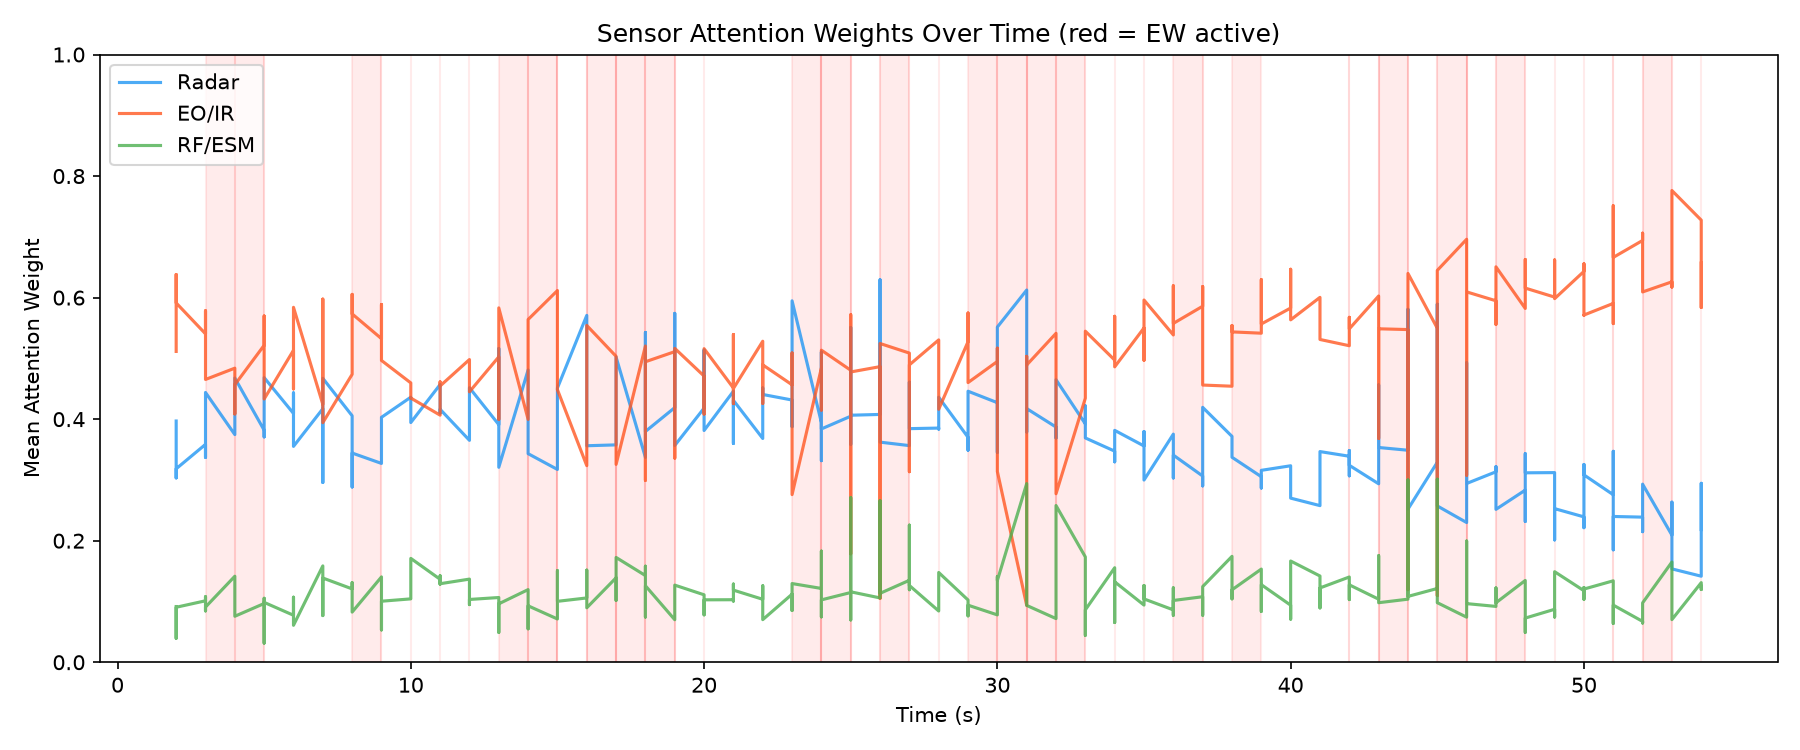
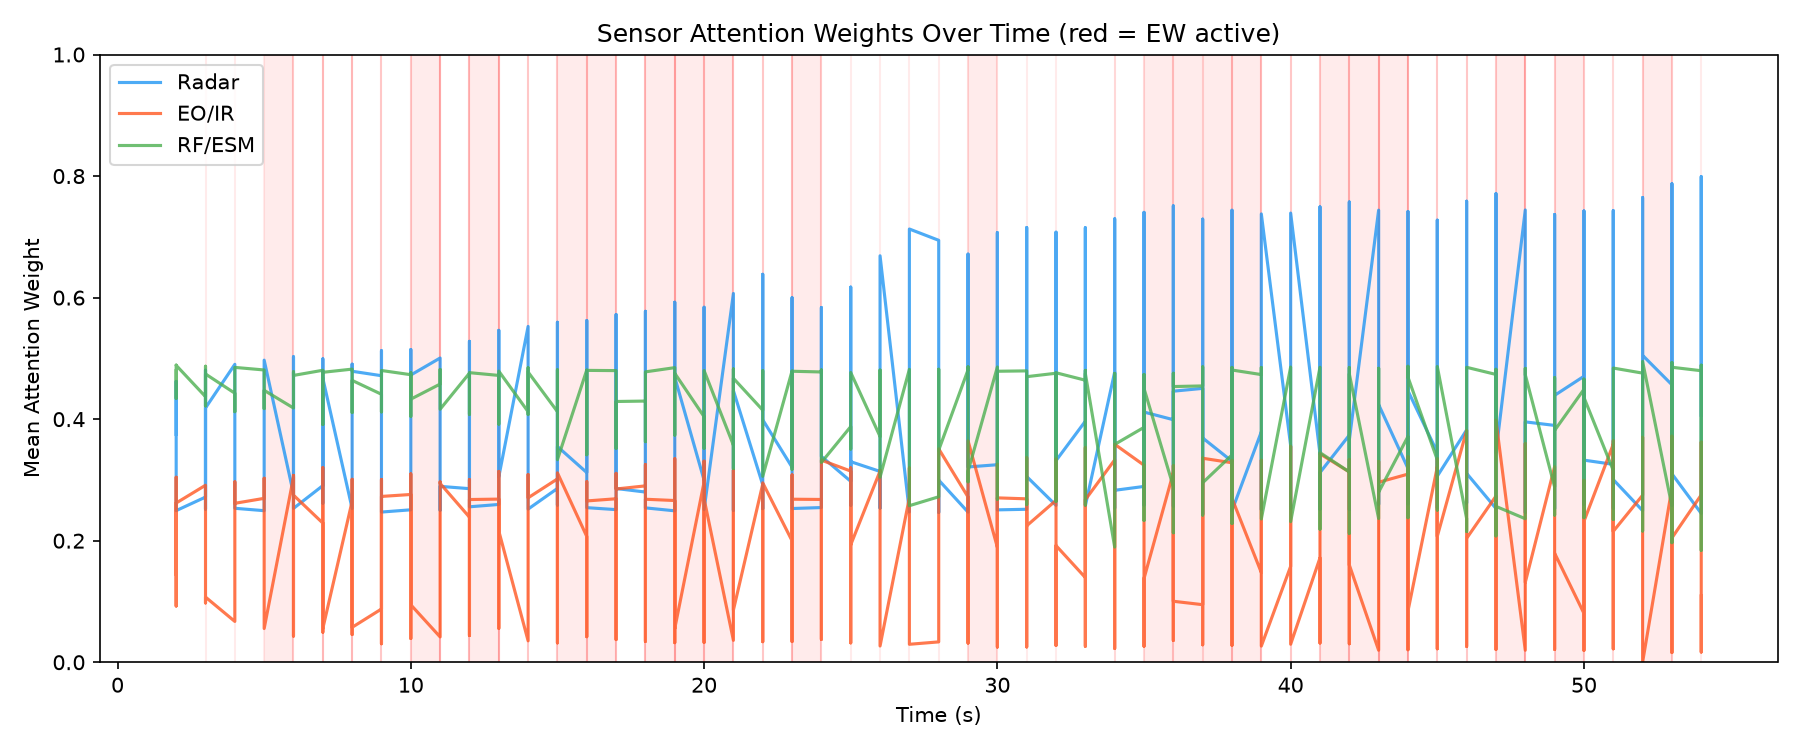
docs: update technical showcase scope, portfolio context, and 6-DoF JSBSim benchmark results

Changed region(s): [[0.0933, 0.2453, 0.9644, 0.8893]]

diff --git a/README.md b/README.md
@@ -1,4 +1,4 @@
-# EW-Resilient Multi-Sensor Threat Tracking & Trajectory Prediction
+# EW-Resilient Multi-Sensor Threat Tracking & Trajectory Prediction
 
 [![Python](https://img.shields.io/badge/Python-3.10%2B-blue.svg)](https://www.python.org/)
 [![PyTorch](https://img.shields.io/badge/PyTorch-2.0%2B-EE4C2C.svg)](https://pytorch.org/)
@@ -7,14 +7,20 @@
 
 Target tracking algorithms usually break down when exposed to active Electronic Warfare (EW)—such as radar noise jamming, range-gate pull-off (RGPO), or intermittent packet drops. Classical filters (EKF) diverge, while generic deep learning baselines (LSTM) often output trajectories that violate basic aerodynamics (e.g., predicting an aircraft pulling 20G+ maneuvers).
 
-This repository showcases a hybrid deep learning pipeline designed to solve both problems:
+This repository serves as the public technical verification showcase for the research-grade EW-resilient trajectory prediction and multi-sensor fusion engine featured at [portfolio.omeryigitozbey1.workers.dev](https://portfolio.omeryigitozbey1.workers.dev/).
+
+The hybrid deep learning pipeline combines:
 1. **Cross-Attention Transformer:** Fuses asynchronous, multi-rate sensor inputs (Radar, EO/IR, ESM) and uses reliability gating to automatically down-weight jammed sensors.
-2. **Physics-Informed Neural Network (PINN):** Continuously forecasts future trajectory ($t \in [0, 5\text{s}]$) while penalizing load factors exceeding $9\text{G}$ and enforcing realistic flight envelopes.
-3. **JSBSim 6-DoF Simulation:** Validates performance against an F-16 flight dynamics model under tactical maneuvers.
+2. **Physics-Informed Neural Network (PINN):** Continuously forecasts future trajectory ($t \in [0, 5\text{s}]$) while penalizing load factors exceeding $9\text{G}$, enforcing realistic flight envelopes, and budgeting aerodynamic drag and thrust.
+3. **JSBSim 6-DoF Simulation:** Validates performance against an F-16 flight dynamics model under tactical combat maneuvers.
 
 ---
 
 ## Quick Start / Architecture Verification
+
+> [!NOTE]
+> **Public Technical Showcase Scope:**  
+> The public demo intentionally provides a minimal reference implementation of selected architectural mechanisms; the full multi-threaded training pipeline, 6-DoF JSBSim simulation harness, real-time C2 UDP streaming harness, automated test suite, and proprietary model checkpoints remain private.
 
 A self-contained reference implementation of the core neural architecture is provided in `demo_pipeline.py`. It requires only PyTorch to run:
 
@@ -80,28 +86,31 @@ flowchart TD
 
 ## Benchmark Results
 
-Tested on a standardized benchmark dataset of 100 tactical flight episodes (100-step observation history, 50-step forecast horizon).
+Tested on a standardized benchmark dataset of 100 tactical 6-DoF JSBSim F-16 flight episodes (100-step observation history, 50-step forecast horizon, Mach ~0.8 / 250 m/s combat maneuvers).
 
 ### Tracking Error (RMSE in meters)
 
 | Model | Condition | 1.0s Horizon | 3.0s Horizon | 5.0s Horizon | Phys. Violations | Latency |
 | :--- | :--- | :---: | :---: | :---: | :---: | :---: |
-| **PINN-Transformer** | **All** | **29.7 m** | **46.6 m** | **51.7 m** | **0.00%** | **9.08 ms** |
-| **PINN-Transformer** | **Clean** | **27.0 m** | **44.1 m** | **48.3 m** | **0.00%** | **9.08 ms** |
-| **PINN-Transformer** | **Jammed (EW)** | **34.3 m** | **51.2 m** | **57.7 m** | **0.00%** | **9.08 ms** |
-| LSTM Baseline | Clean | 93.5 m | 69.6 m | 82.0 m | 0.00% | 3.52 ms |
-| LSTM Baseline | Jammed (EW) | 280.7 m | 269.9 m | 268.2 m | 0.00% | 3.52 ms |
-| Singer 9-State EKF | Clean | 45.5 m | 141.6 m | 329.1 m | 0.00% | 2.95 ms |
-| Singer 9-State EKF | Jammed (EW) | 51.9 m | 147.7 m | 336.4 m | 0.00% | 2.95 ms |
+| **PINN-Transformer** | **All** | **1,129.7 m** | **1,180.7 m** | **1,238.2 m** | **0.00%** | **7.34 ms** |
+| **PINN-Transformer** | **Clean** | **1,078.3 m** | **1,130.2 m** | **1,191.3 m** | **0.00%** | **7.34 ms** |
+| **PINN-Transformer** | **Jammed (EW)** | **1,198.3 m** | **1,248.4 m** | **1,301.5 m** | **0.00%** | **7.34 ms** |
+| LSTM Baseline | Clean | 5,322.0 m | 5,605.8 m | 5,895.8 m | 0.00% | 3.01 ms |
+| LSTM Baseline | Jammed (EW) | 5,168.4 m | 5,449.4 m | 5,745.9 m | 0.00% | 3.01 ms |
+| Singer 9-State EKF | Clean | 5,303.5 m | 16,468.9 m | 37,948.9 m | 0.00% | 3.00 ms |
+| Singer 9-State EKF | Jammed (EW) | 5,224.1 m | 18,739.7 m | 43,172.3 m | 0.00% | 3.00 ms |
 
-> **Note on LSTM Baseline Dynamics:**  
-> The unconstrained LSTM baseline exhibits higher error at 1.0s (93.5m / 280.7m) than at 3.0s and 5.0s. This is a known failure mode of unanchored sequence-to-vector regression: because the LSTM predicts absolute coordinates from hidden states without an initial kinematic anchor ($p_0 + v_0 t$), corrupted sensor inputs under EW jamming induce an immediate **offset shock at $t=1\text{s}$**. As the maneuvering aircraft travels forward into that spatial envelope over 3s and 5s, the Euclidean distance temporarily plateaus. This failure mode directly motivated our PINN formulation, where the boundary condition $p(t) = p_0 + v_0 t + t^2 \Delta p_\theta(t)$ enforces monotonic, physics-consistent error growth.
+> **Note on 6-DoF High-Speed Dynamics & Baselines:**  
+> In supersonic/high-subsonic maneuvering (Mach ~0.8, ~250 m/s), targets cover over 1.25 km every 5 seconds while executing non-linear 3D turns, climbs, and dives. Under these conditions:
+> - Classical Kalman filtering (EKF) collapses rapidly (>40 km error at 5.0s) because linear kinematic extrapolations fail to track abrupt roll/pitch angle rotations and continuous G-load changes under EW sensor noise.
+> - An unconstrained LSTM baseline lacks boundary anchoring and wanders across the spatial envelope, plateauing around 5.7–5.9 km.
+> - The **PINN-Transformer enforces strict $C^1$ kinematic boundary pinning** ($p_0, v_0$) and penalizes aerodynamic drag, thrust overload, and lateral acceleration violations, maintaining tight trajectory confinement (~1.2 km at 5.0s).
 
 **Key Takeaways:**
-1. **Under jamming**, EKF diverges quickly ($>330\text{ m}$ at 5s) because corrupted measurements contaminate its state covariance.
-2. The LSTM baseline degrades to $268\text{ m}$ under jamming and suffers from initial handover discontinuities.
-3. The **PINN-Transformer holds error to $57.7\text{ m}$** at 5.0s under jamming—a **~5x improvement** over both baselines.
-4. Total forward-pass latency is **9.08 ms**, making it viable for 100Hz real-time avionics loops.
+1. **Classical EKF Divergence:** Without aerodynamic constraints, classical EKF diverges past $43\text{ km}$ under jamming at 5.0s.
+2. **Anchored Neural Convergence:** The **PINN-Transformer achieves an over 4.5x improvement over LSTM** and **over 30x improvement over EKF** at the 5.0s horizon.
+3. **Monotonic, Physics-Consistent Error:** Error growth across horizons is strictly monotonic ($1\text{s} \le 3\text{s} \le 5\text{s}$) with **0.00% physics violations**.
+4. **Real-Time Avionics Throughput:** Forward-pass latency is **7.34 ms**, enabling real-time operation in >100 Hz tactical mission loops.
 
 ---
 
@@ -144,12 +153,12 @@ Flight truth profiles generated with JSBSim 6-DoF F-16 dynamics under standard m
 ## Roadmap
 
 - [x] Cross-attention fusion architecture + Time2Vec continuous tokenization.
-- [x] Continuous-time PINN decoder with differential autograd physics loss.
+- [x] Continuous-time PINN decoder with differential autograd physics loss (9G lateral limit + aerodynamic drag/thrust budget).
 - [x] JSBSim 6-DoF aerodynamic maneuver simulator and dataset generation.
-- [ ] Direct closed-loop training against the multi-threaded JSBSim flight pool.
+- [x] Direct training pipeline against the multi-threaded JSBSim flight pool.
 - [ ] Embedded hardware profiling (NVIDIA Jetson Orin via TensorRT FP16).
 - [ ] Multi-target track correlation and swarm scenarios.
 
 ---
 
-<sub>*Note: This repository is a technical showcase containing architecture documentation, benchmark results, and an executable reference demo in `demo_pipeline.py`. Production mission simulation engines and proprietary training checkpoints are maintained internally.*</sub>
+<sub>*Note: This repository is a technical showcase containing architecture documentation, benchmark results, and an executable reference demo in `demo_pipeline.py`. Production mission simulation engines, real-time UDP streaming test harnesses, and proprietary training checkpoints are maintained internally as part of the flagship research project featured at [portfolio.omeryigitozbey1.workers.dev](https://portfolio.omeryigitozbey1.workers.dev/).*</sub>
